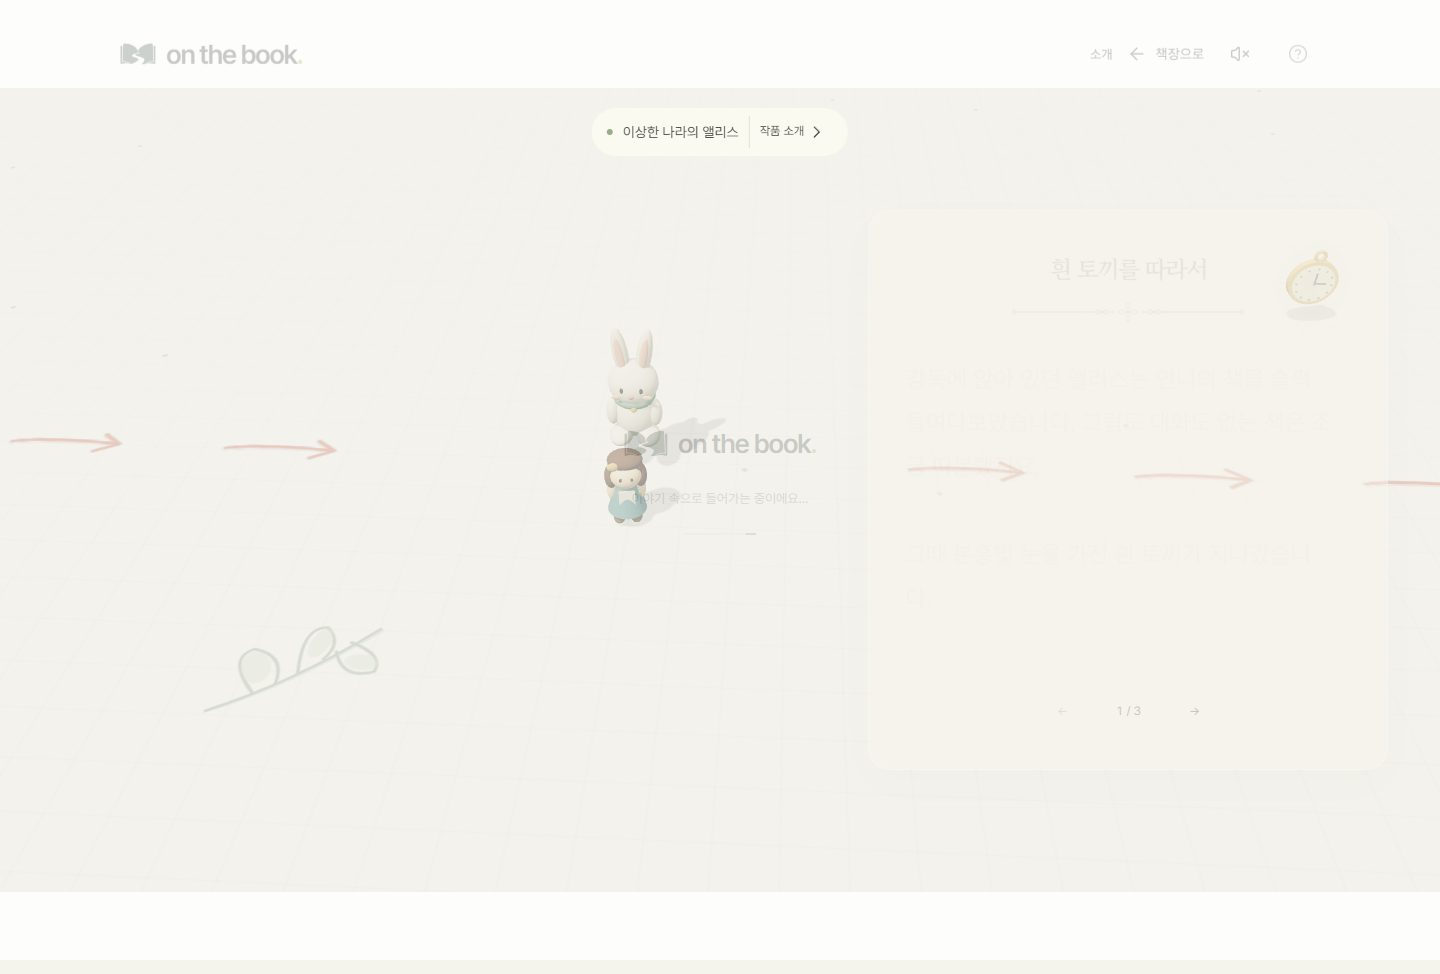
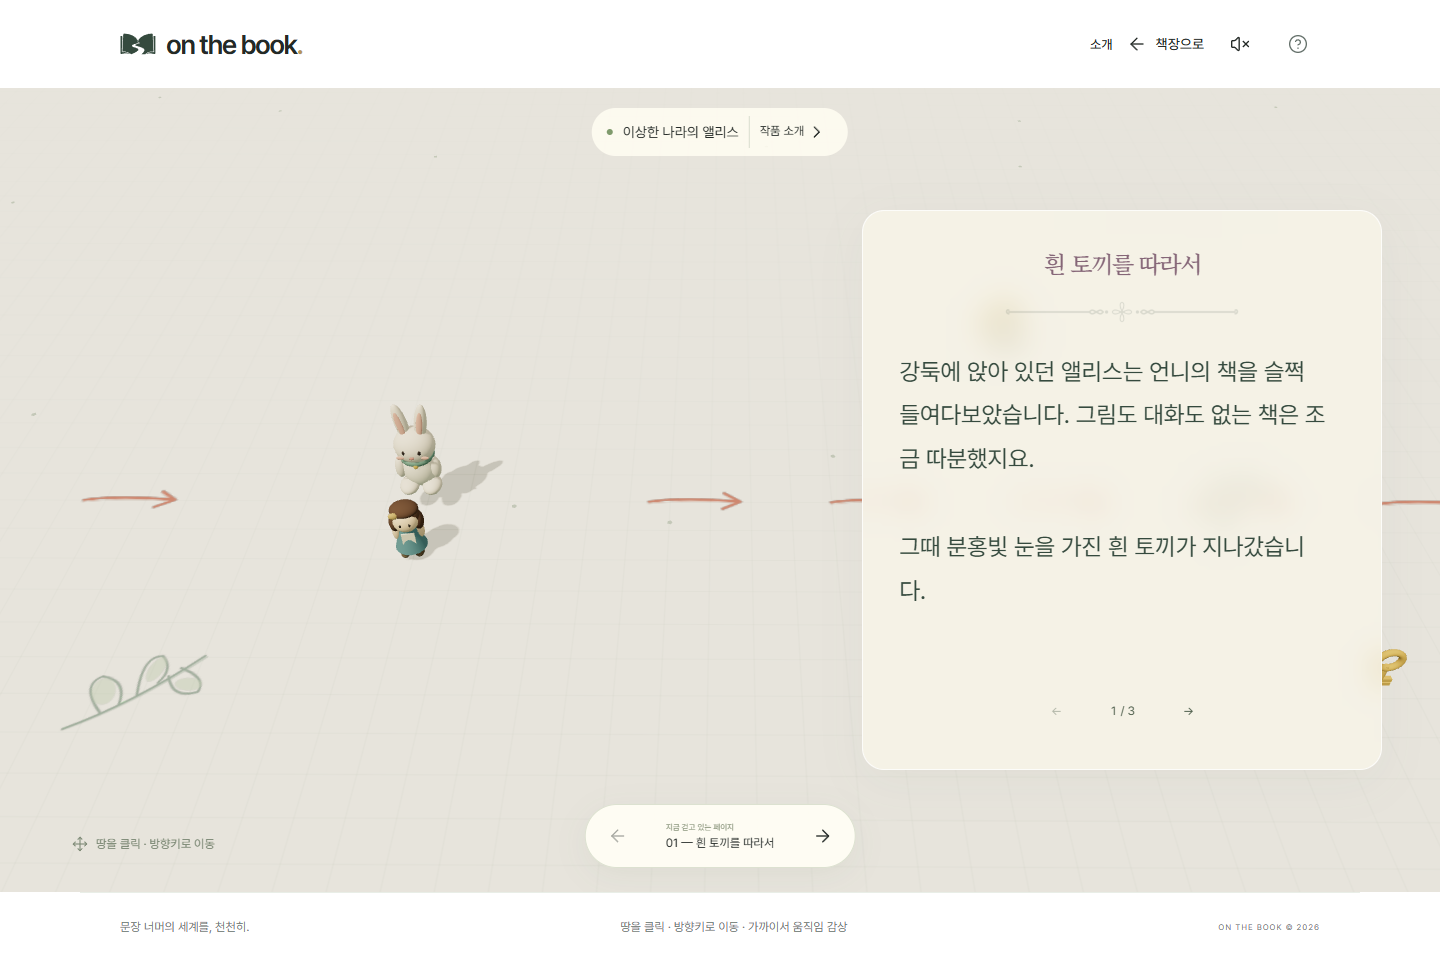
Wait for the curtain before the world preview
The explore preview was captured while the entry curtain was still
fading, so capture.mjs now waits for it like the other screenshots. The
spec's phone-sheet check names the sheet's title id.

diff --git a/docs/superpowers/specs/2026-09-28-detail-pages-design.md b/docs/superpowers/specs/2026-09-28-detail-pages-design.md
@@ -247,7 +247,7 @@ admin/
 6. 홈에서 `.feature-card.is-active`(앨리스) 클릭 → 작품 상세. "책장으로" → `.feature-card.is-active` 에 초점, 5.6초 뒤에도 유지(기존).
 7. 주소 직접 열기(기존 7단계에 더해): `?book=alice&scene=alice-2` 는 2행 선택과 패널 2장면, 문서 제목은 책 제목. 나머지(`?book=nope`, `?scene=alice-2`, `?book=alice&chapter=nope`, `?book=alice&scene=nope&preview=draft`, 초안 미리보기의 빈 책장)는 기존 단정 유지.
 8. 홈 화면 관리 묶음("Studio covers…" 단계, 가로챈 응답): `[data-book="alice"]` → `.detail-cover img` 1개; 썸네일이 있는 장면 카드 → 패널 `.scene-panel .scene-image.has-image img` 1개, 그 자리의 폭/높이 비 1.6(±0.02).
-9. 휴대폰 반복(320·390·768): 카드 탭 → 상세, `aside.scene-panel` 은 보이지 않고 `.detail-cta` 가 화면 아래에 있으며 폭 전체(`left 0`, `right = innerWidth`). 여정 2행 탭 → `dialog.scene-sheet[open]` 안에 `#panel-scene-title` "작아지는 문, 커지는 세계", 하단 바 문구 "02 ·". 시트 안 CTA 탭 → `#world canvas`, 주소 `chapter=alice-2`. 768px 도 한 열이므로 같은 흐름이다.
+9. 휴대폰 반복(320·390·768): 카드 탭 → 상세, `aside.scene-panel` 은 보이지 않고 `.detail-cta` 가 화면 아래에 있으며 폭 전체(`left 0`, `right = innerWidth`). 여정 2행 탭 → `dialog.scene-sheet[open]` 안에 `#sheet-scene-title` "작아지는 문, 커지는 세계", 하단 바 문구 "02 ·". 시트 안 이전·다음 링크는 시트·여정 선택·하단 바를 함께 바꾸고, 시트 안 CTA 탭 → `#world canvas`, 주소 `chapter=<그 장면>`. 768px 도 한 열이므로 같은 흐름이다.
 
 ### 14.3 `tests/mobile-entry.mjs`(4321 포트)
 
